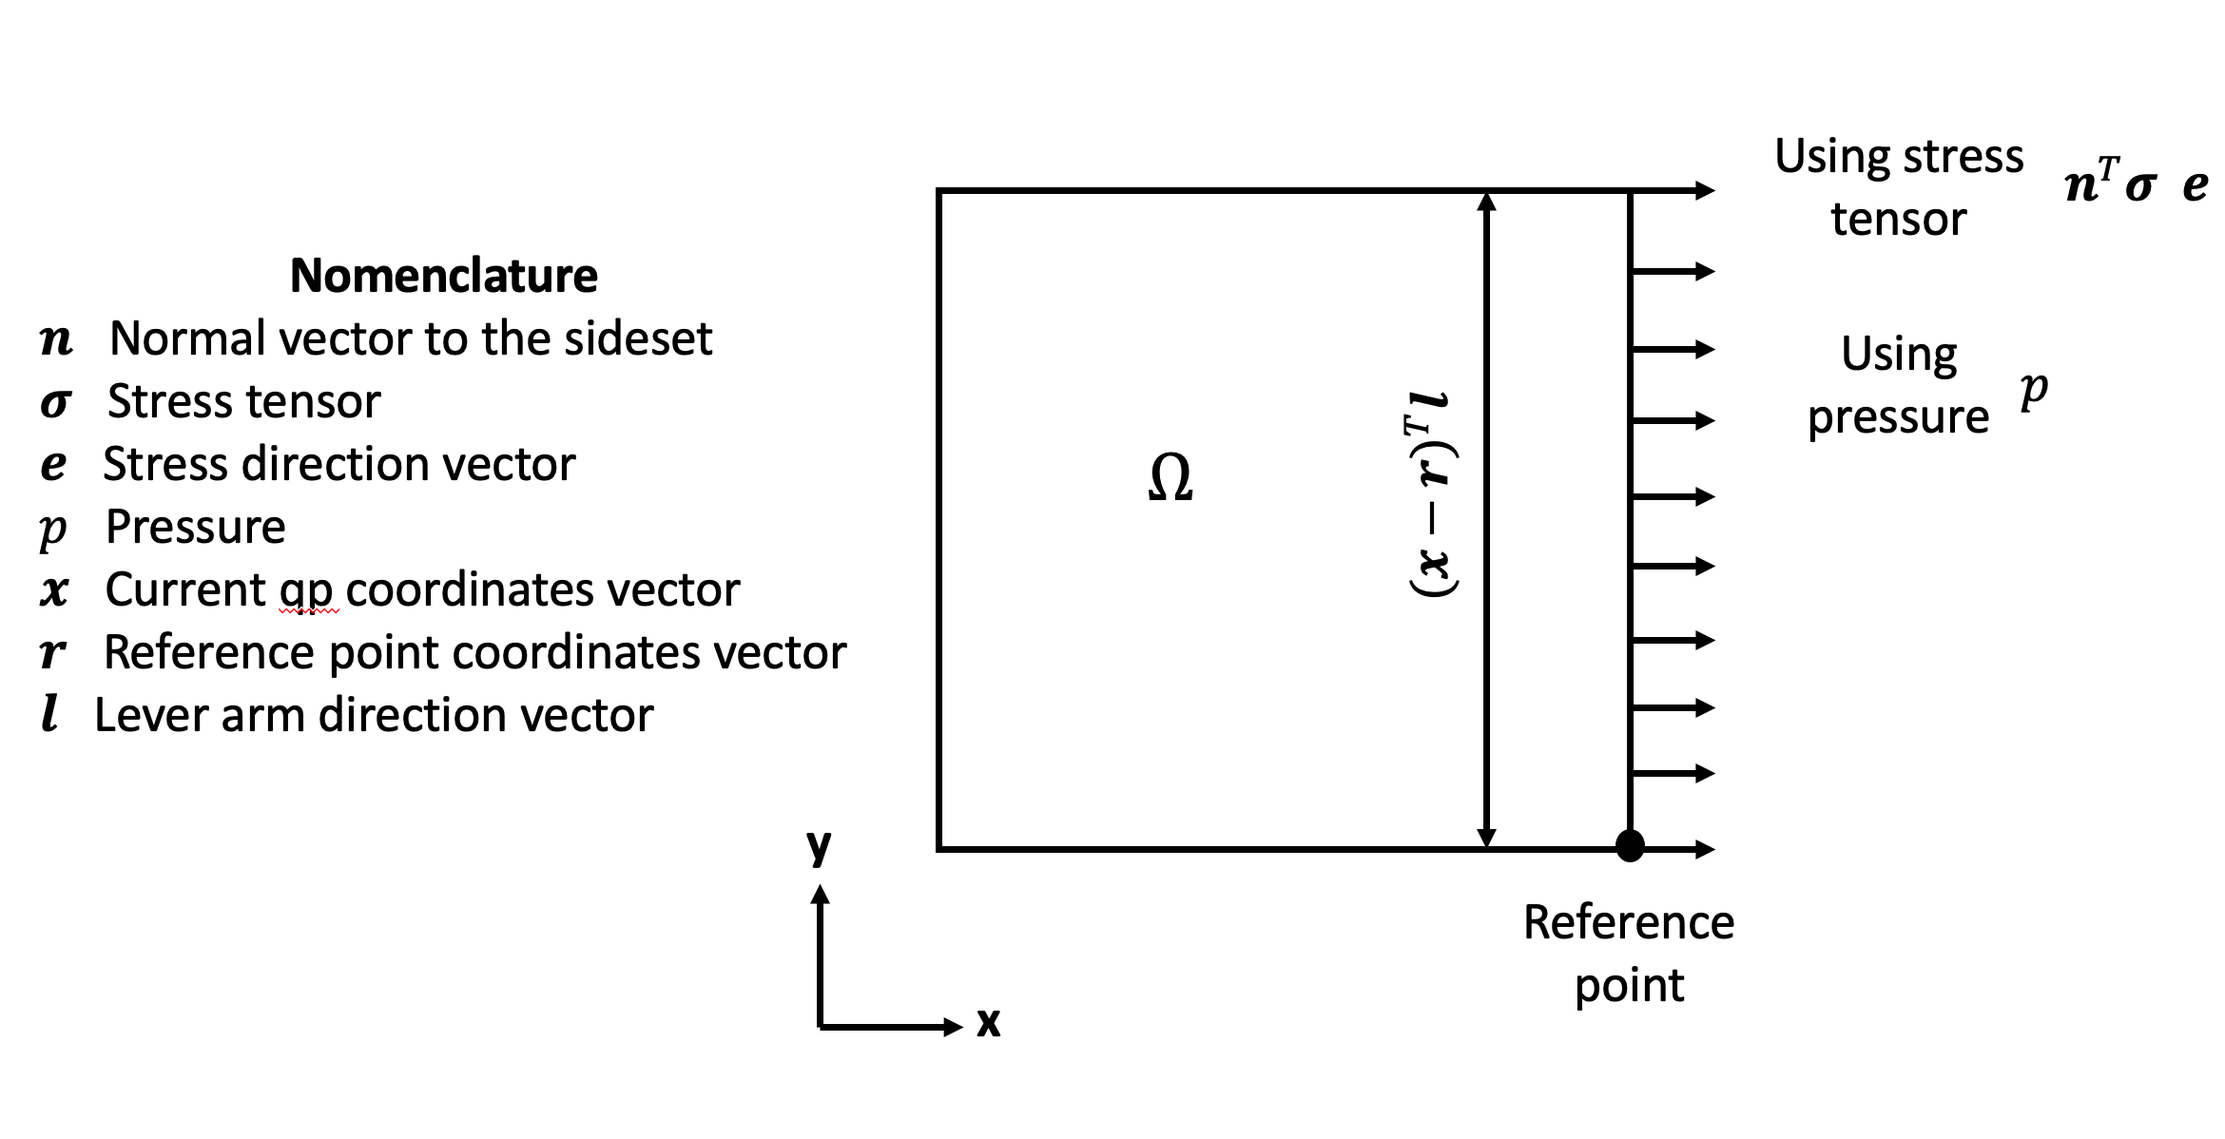
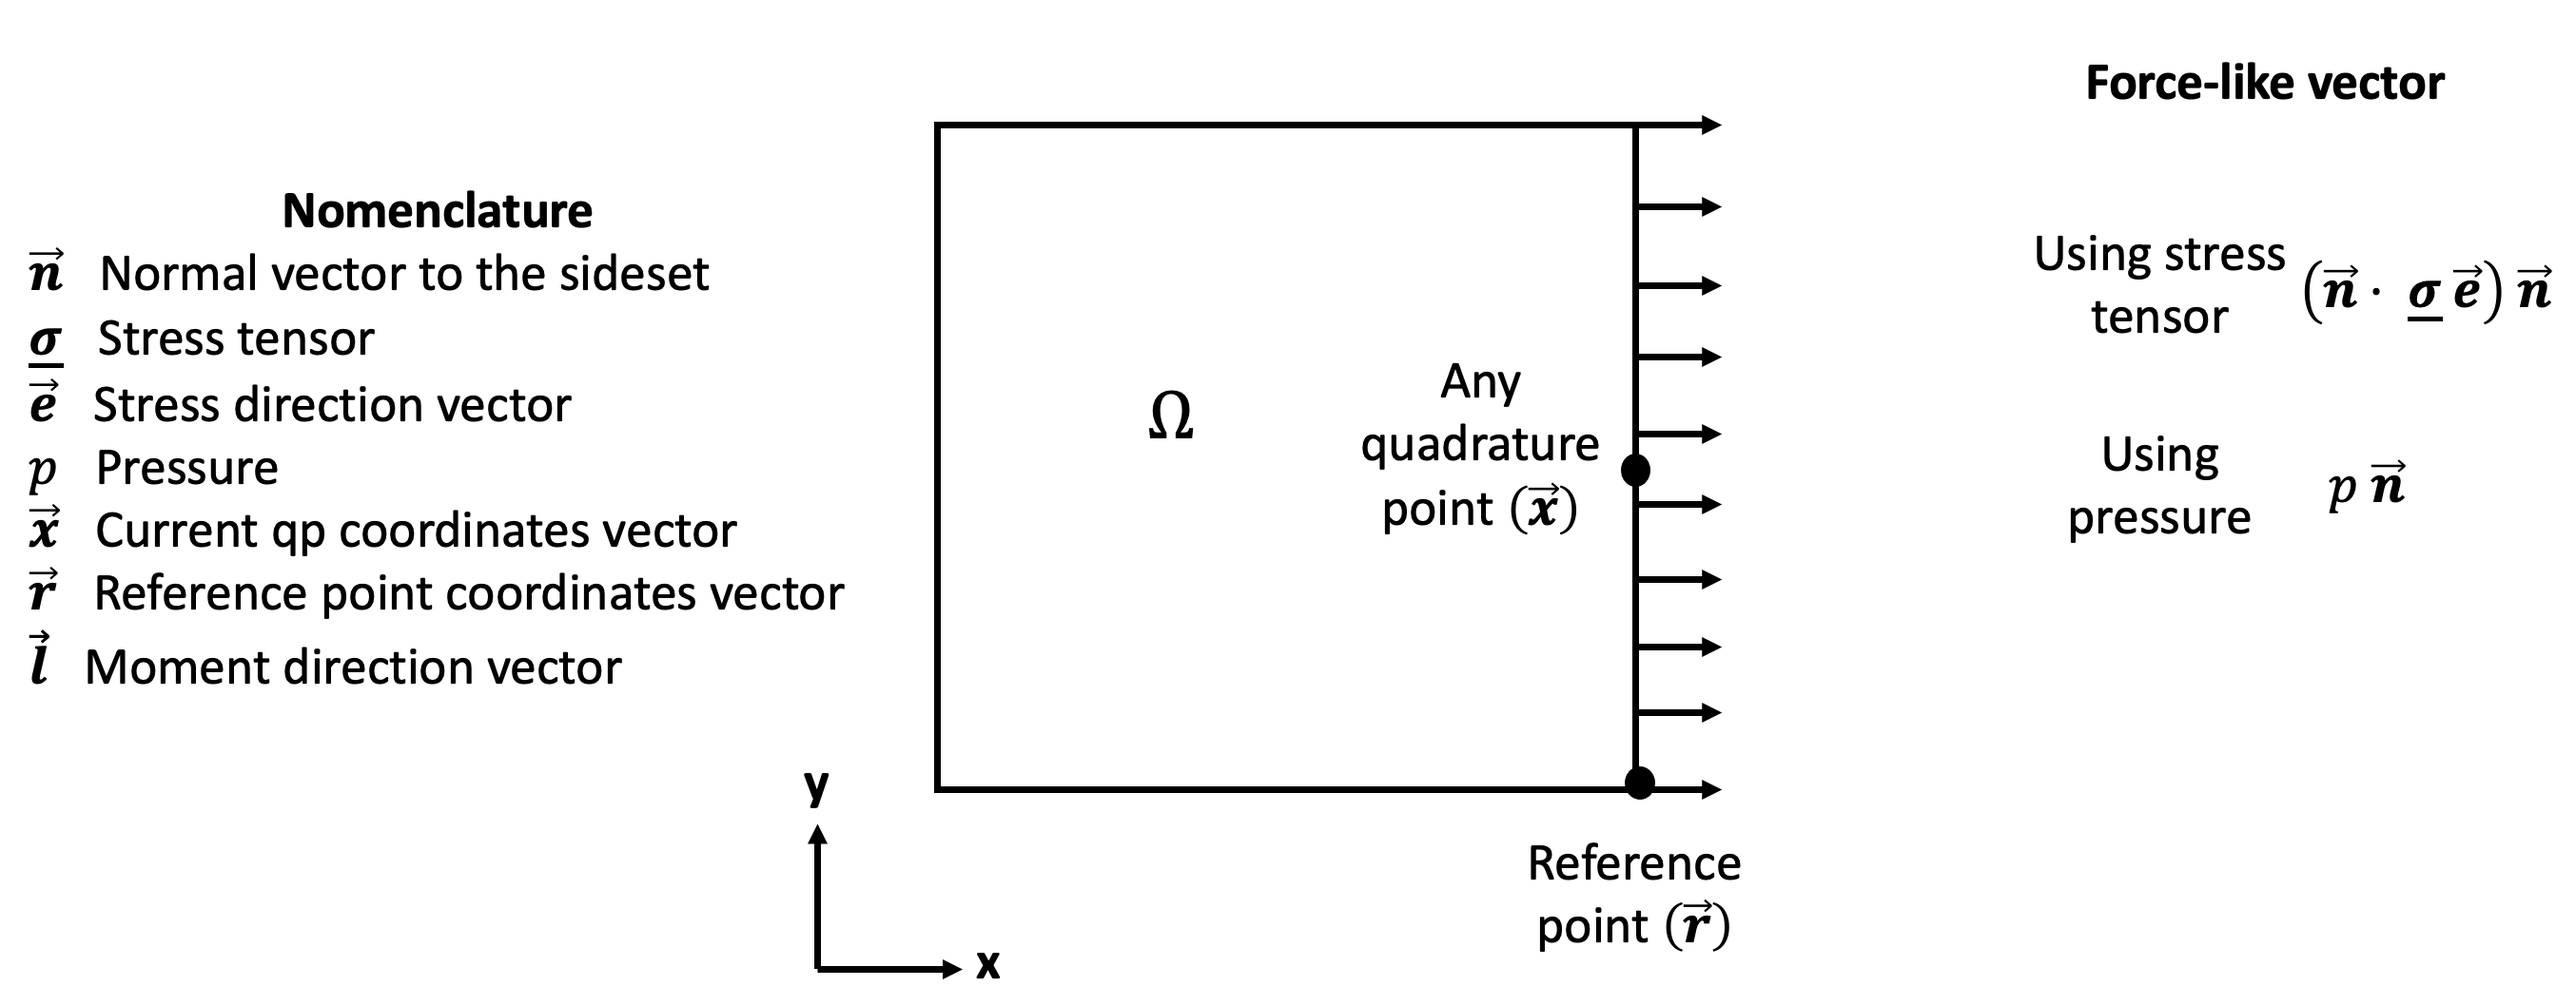
More generalization

diff --git a/src/postprocessors/SidesetMoment.C b/src/postprocessors/SidesetMoment.C
@@ -22,11 +22,11 @@ SidesetMomentTempl<is_ad>::validParams()
                              "user-specified direction "
                              "on a sideset from the surface traction");
   params.addParam<MaterialPropertyName>("stress_tensor", "The rank two stress tensor name");
-  params.addParam<RealVectorValue>("stress_dir", "Stress direction");
-  params.addCoupledVar("p", "The scalar pressure");
+  params.addParam<RealVectorValue>("stress_direction", "Stress direction");
+  params.addCoupledVar("pressure", "The scalar pressure");
   params.addRequiredParam<RealVectorValue>(
-      "ref_point", "Reference point on the sideset about which the moment is computed");
-  params.addRequiredParam<RealVectorValue>("leverarm_direction", "Lever arm direction");
+      "reference_point", "Reference point on the sideset about which the moment is computed");
+  params.addRequiredParam<RealVectorValue>("moment_direction", "Moment direction");
   params.set<bool>("use_displaced_mesh") = true;
   return params;
 }
@@ -37,21 +37,23 @@ SidesetMomentTempl<is_ad>::SidesetMomentTempl(const InputParameters & parameters
     _tensor(isParamValid("stress_tensor")
                 ? &getGenericMaterialProperty<RankTwoTensor, is_ad>("stress_tensor")
                 : nullptr),
-    _stress_dir(isParamValid("stress_dir") ? &getParam<RealVectorValue>("stress_dir") : nullptr),
-    _p(isCoupled("p") ? &coupledValue("p") : nullptr),
-    _ref_point(getParam<RealVectorValue>("ref_point")),
-    _leverarm_direction(&getParam<RealVectorValue>("leverarm_direction"))
+    _stress_direction(isParamValid("stress_direction")
+                          ? &getParam<RealVectorValue>("stress_direction")
+                          : nullptr),
+    _pressure(isCoupled("pressure") ? &coupledValue("pressure") : nullptr),
+    _reference_point(getParam<RealVectorValue>("reference_point")),
+    _moment_direction(&getParam<RealVectorValue>("moment_direction"))
 {
-  if (_tensor && _p)
+  if (_tensor && _pressure)
     mooseError(
         "In block ",
         name(),
         ", both the stress tensor and the pressure should not be provided at the same time.");
-  if (_tensor && !_stress_dir)
+  if (_tensor && !_stress_direction)
     mooseError("In block ",
                name(),
                ", a direction vector should be provided along with the stress tensor.");
-  if (!_tensor && !_p)
+  if (!_tensor && !_pressure)
     mooseError(
         "In block ", name(), ", either the stress tensor or the pressure should be provided.");
 }
@@ -61,10 +63,20 @@ Real
 SidesetMomentTempl<is_ad>::computeQpIntegral()
 {
   if (_tensor)
-    return _normals[_qp] * (MetaPhysicL::raw_value((*_tensor)[_qp]) * (*_stress_dir)) *
-           (_q_point[_qp] - _ref_point) * (*_leverarm_direction);
+    _force_vector =
+        (_normals[_qp] * (MetaPhysicL::raw_value((*_tensor)[_qp]) * (*_stress_direction))) *
+        _normals[_qp];
   else
-    return ((*_p)[_qp]) * (_q_point[_qp] - _ref_point) * (*_leverarm_direction);
+    _force_vector = ((*_pressure)[_qp]) * _normals[_qp];
+
+  _moment_vector(0) = (_force_vector(1) * (_q_point[_qp] - _reference_point)(2) -
+                       _force_vector(2) * (_q_point[_qp] - _reference_point)(1));
+  _moment_vector(1) = (_force_vector(2) * (_q_point[_qp] - _reference_point)(0) -
+                       _force_vector(0) * (_q_point[_qp] - _reference_point)(2));
+  _moment_vector(2) = (_force_vector(0) * (_q_point[_qp] - _reference_point)(1) -
+                       _force_vector(1) * (_q_point[_qp] - _reference_point)(0));
+
+  return _moment_vector * (*_moment_direction);
 }
 
 template class SidesetMomentTempl<false>;

diff --git a/include/postprocessors/SidesetMoment.h b/include/postprocessors/SidesetMoment.h
@@ -32,16 +32,22 @@ private:
   const GenericMaterialProperty<RankTwoTensor, is_ad> * _tensor;
 
   /// the direction vector using which the force is computed
-  const RealVectorValue * _stress_dir;
+  const RealVectorValue * _stress_direction;
 
   /// the pressure
-  const VariableValue * const _p;
+  const VariableValue * const _pressure;
 
   /// the reference point on the sideset about which the moment is computed
-  const RealVectorValue & _ref_point;
+  const RealVectorValue & _reference_point;
 
-  /// the direction using which the lever arm is computed
-  const RealVectorValue * _leverarm_direction;
+  /// the direction about which the moment is computed
+  const RealVectorValue * _moment_direction;
+
+  /// storage for the force vector
+  RealVectorValue _force_vector;
+
+  /// storage for the moment vector
+  RealVectorValue _moment_vector;
 };
 
 typedef SidesetMomentTempl<false> SidesetMoment;

diff --git a/doc/content/source/postprocessors/SidesetMoment.md b/doc/content/source/postprocessors/SidesetMoment.md
@@ -1,4 +1,4 @@
-# Side Moment Postprocessor
+# Sideset Moment Postprocessor
 
 !syntax description /Postprocessors/SidesetMoment
 
@@ -9,33 +9,37 @@ along vector $\vec{e}$ or pressure $p$ acting on a sideset $\partial S$ multipli
 by the lever arm. When stress tensor is given as an input, `SidesetMoment` is computed as:
 
 \begin{equation}
-  M = \int_{\partial S}~\vec{n}^T~\underline{\sigma}~\vec{e}~(\vec{x}-\vec{r})^T~\vec{l}~\partial S,
+  M = \int_{\partial S}~\bigg( \big(\vec{n}~\cdot~\underline{\sigma}~\vec{e}\big) \vec{n} \times ~(\vec{x}-\vec{r}) \bigg) \cdot \vec{l}~\partial S,
 \end{equation}
 
 where $M$ is the sideset moment, $\vec{x}$ is the current quadrature point, $\vec{r}$
-is the reference point, and $\vec{l}$ is the lever arm direction vector. The product
-$(\vec{x}-\vec{r})^T~\vec{l}$ gives the required lever arm which is a scalar. When
-pressure is given as an input, `SidesetMoment` is computed as:
+is the reference point, and $\vec{l}$ is the moment direction vector. The quantity
+ $\big(\vec{n}~\cdot~\underline{\sigma}~\vec{e}\big)$ gives a scalar and when multiplied
+ with $\vec{n}$ gives a force-like vector. The cross-product of this force-like vector
+and the relative distance vector between the current `qp` and the reference point $(\vec{x}-\vec{r})$
+ gives the moment vector. This moment vector when dotted with the `moment_direction` vector
+ gives the scalar moment about the required direction. When using pressure, the computation
+ of the `SidesetMoment` is similar, except that the force-like vector is simply $p \vec{n}$:
 
 \begin{equation}
-  M = \int_{\partial S}~p~(\vec{x}-\vec{r})^T~\vec{l}~\partial S,
+  M = \int_{\partial S}~\bigg( p \vec{n} \times ~(\vec{x}-\vec{r}) \bigg) \cdot \vec{l}~\partial S,
 \end{equation}
 
 The figure below illustrates `SidesetMoment` for a simple example. Moment is to be
 computed about the z-axis (out-of-plane) at the reference point using either the
 stress tensor or the pressure at the right boundary. If the stress tensor is used,
 the normal vector to the boundary is $\vec{n} = (1, 0, 0)$ and the desired stress
-direction is along x-axis (i.e., $\vec{e} = (1, 0, 0)$). The product $\vec{n}^T~\underline{\sigma}~\vec{e}$
- will now result in a scalar. If the pressure is used, no operations on $p$ are necessary
- since it is a scalar and acts normal to the boundary. $(\vec{x}-\vec{r})^T$ is the
- relative distance vector between the the current quadrature and reference points.
- The leverarm direction vector is $(0, 1, 0)$. The product $(\vec{x}-\vec{r})^T~\vec{l}$
- thus gives the desired lever arm and this is also a scalar.  
+direction is along x-axis (i.e., $\vec{e} = (1, 0, 0)$). The quantity $\big(\vec{n}~\cdot~\underline{\sigma}~\vec{e}\big) \vec{n}$ is a force-like vector. If the pressure is used, no operations on $p$ are necessary
+ since it is a scalar, and $p \vec{n}$ is the force-like vector. $(\vec{x}-\vec{r})$ is the
+ relative distance vector between the the current quadrature and reference points. The cross-product
+ of the force-like vector with the relative distance vector gives the moment vector
+$\Bigg($ either $\bigg( \big(\vec{n}~\cdot~\underline{\sigma}~\vec{e}\big) \vec{n} \times ~(\vec{x}-\vec{r}) \bigg)$ or $\bigg( p \vec{n} \times ~(\vec{x}-\vec{r}) \bigg)$ $\Bigg)$. Dotting this moment vector
+ with the moment direction vector $\vec{l} = (0, 0, 1)$ gives the scalar moment about the z-axis.
 
 !media media/postprocessors/SidesetMoment.png
       style=width:100%;margin-right:0px;float:center;
       id=fig:SidesetMoment
-      caption=Illustration of the SidesetMoment Postprocessor with a simple example.
+      caption=Illustration of the SidesetMoment Postprocessor for a simple example.
 
 !syntax parameters /Postprocessors/SidesetMoment
 
